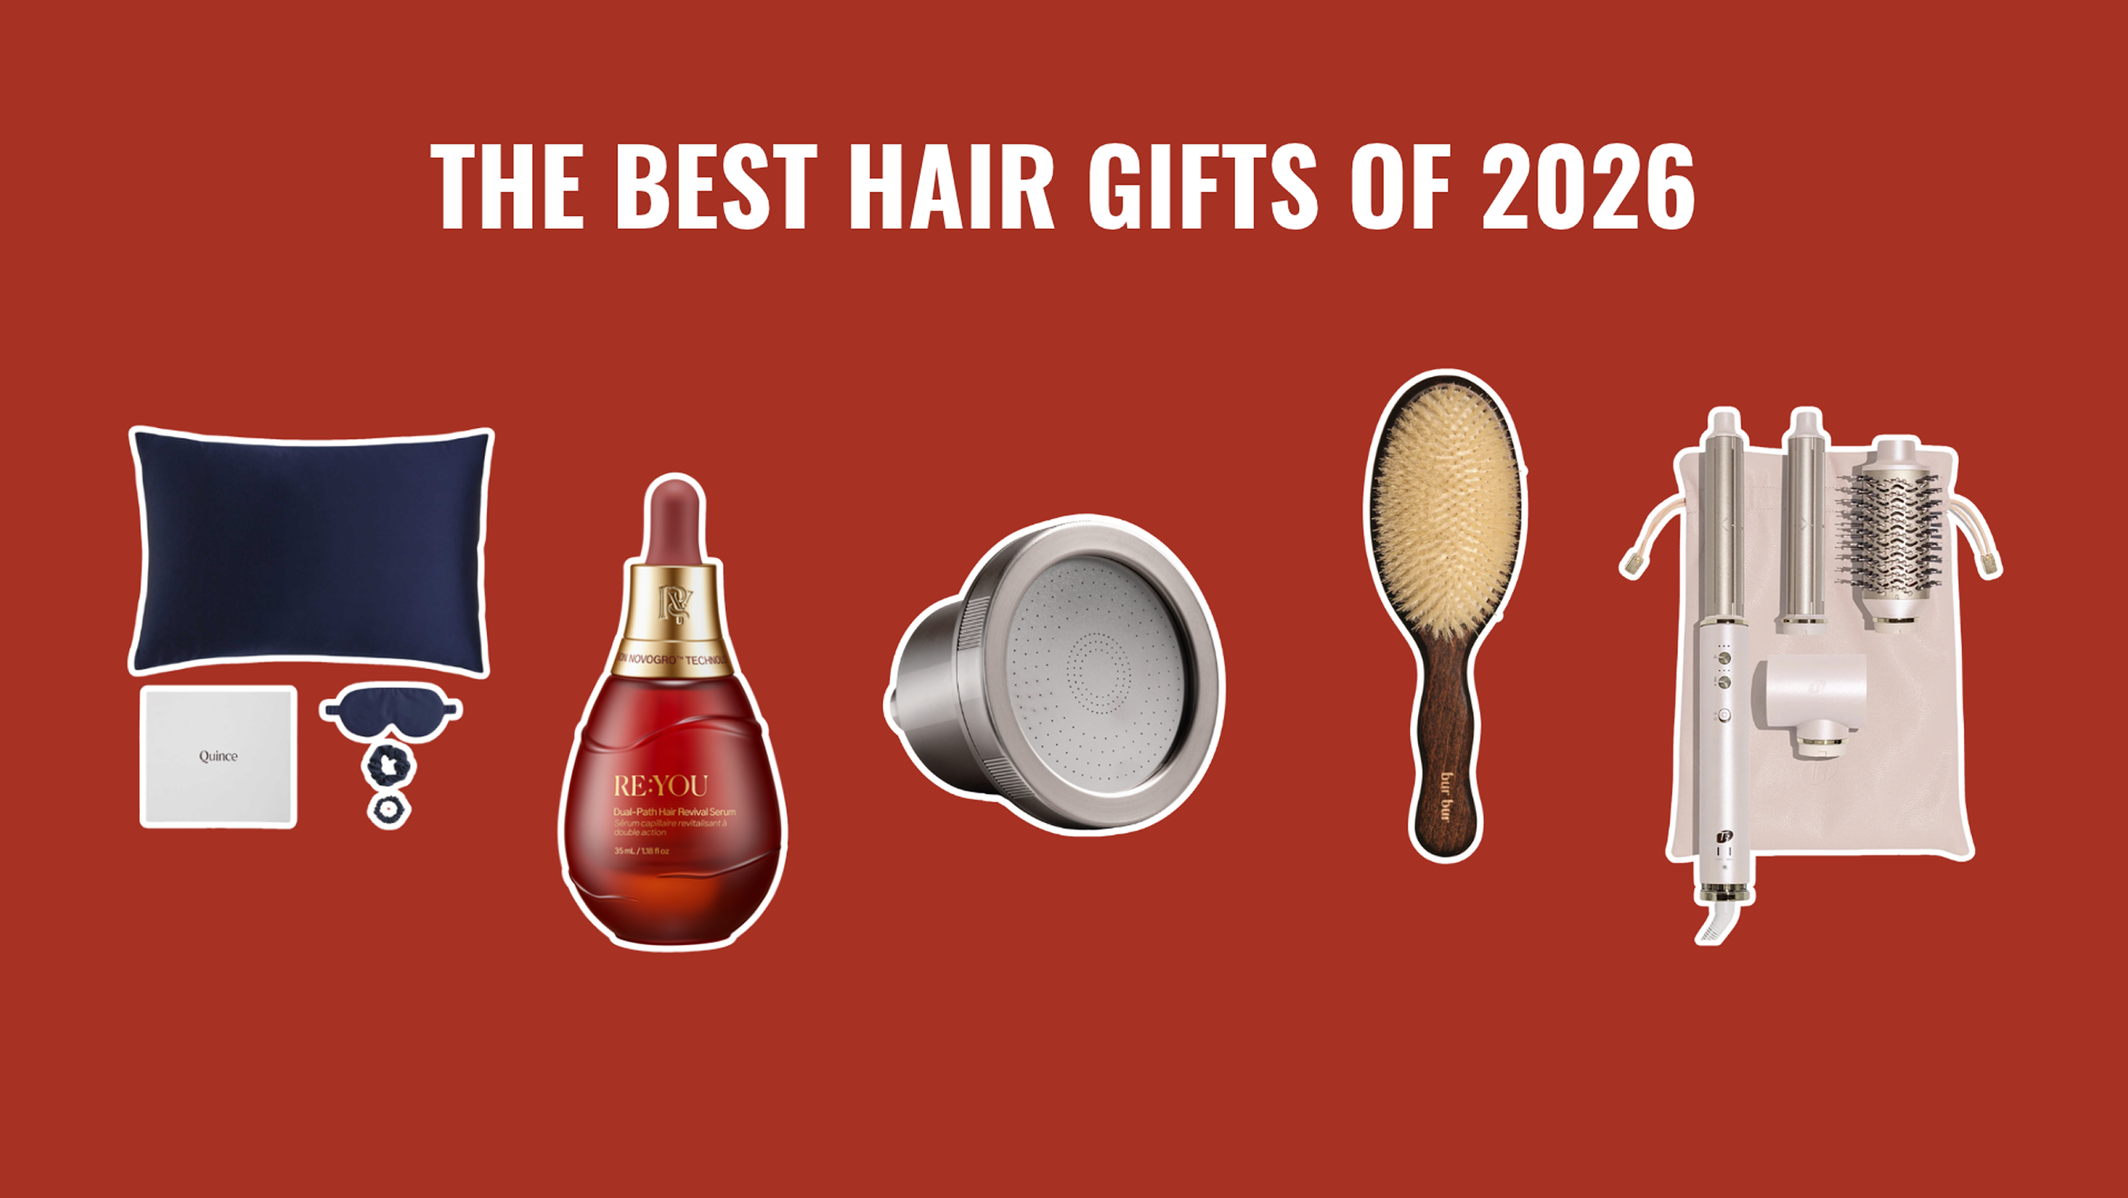
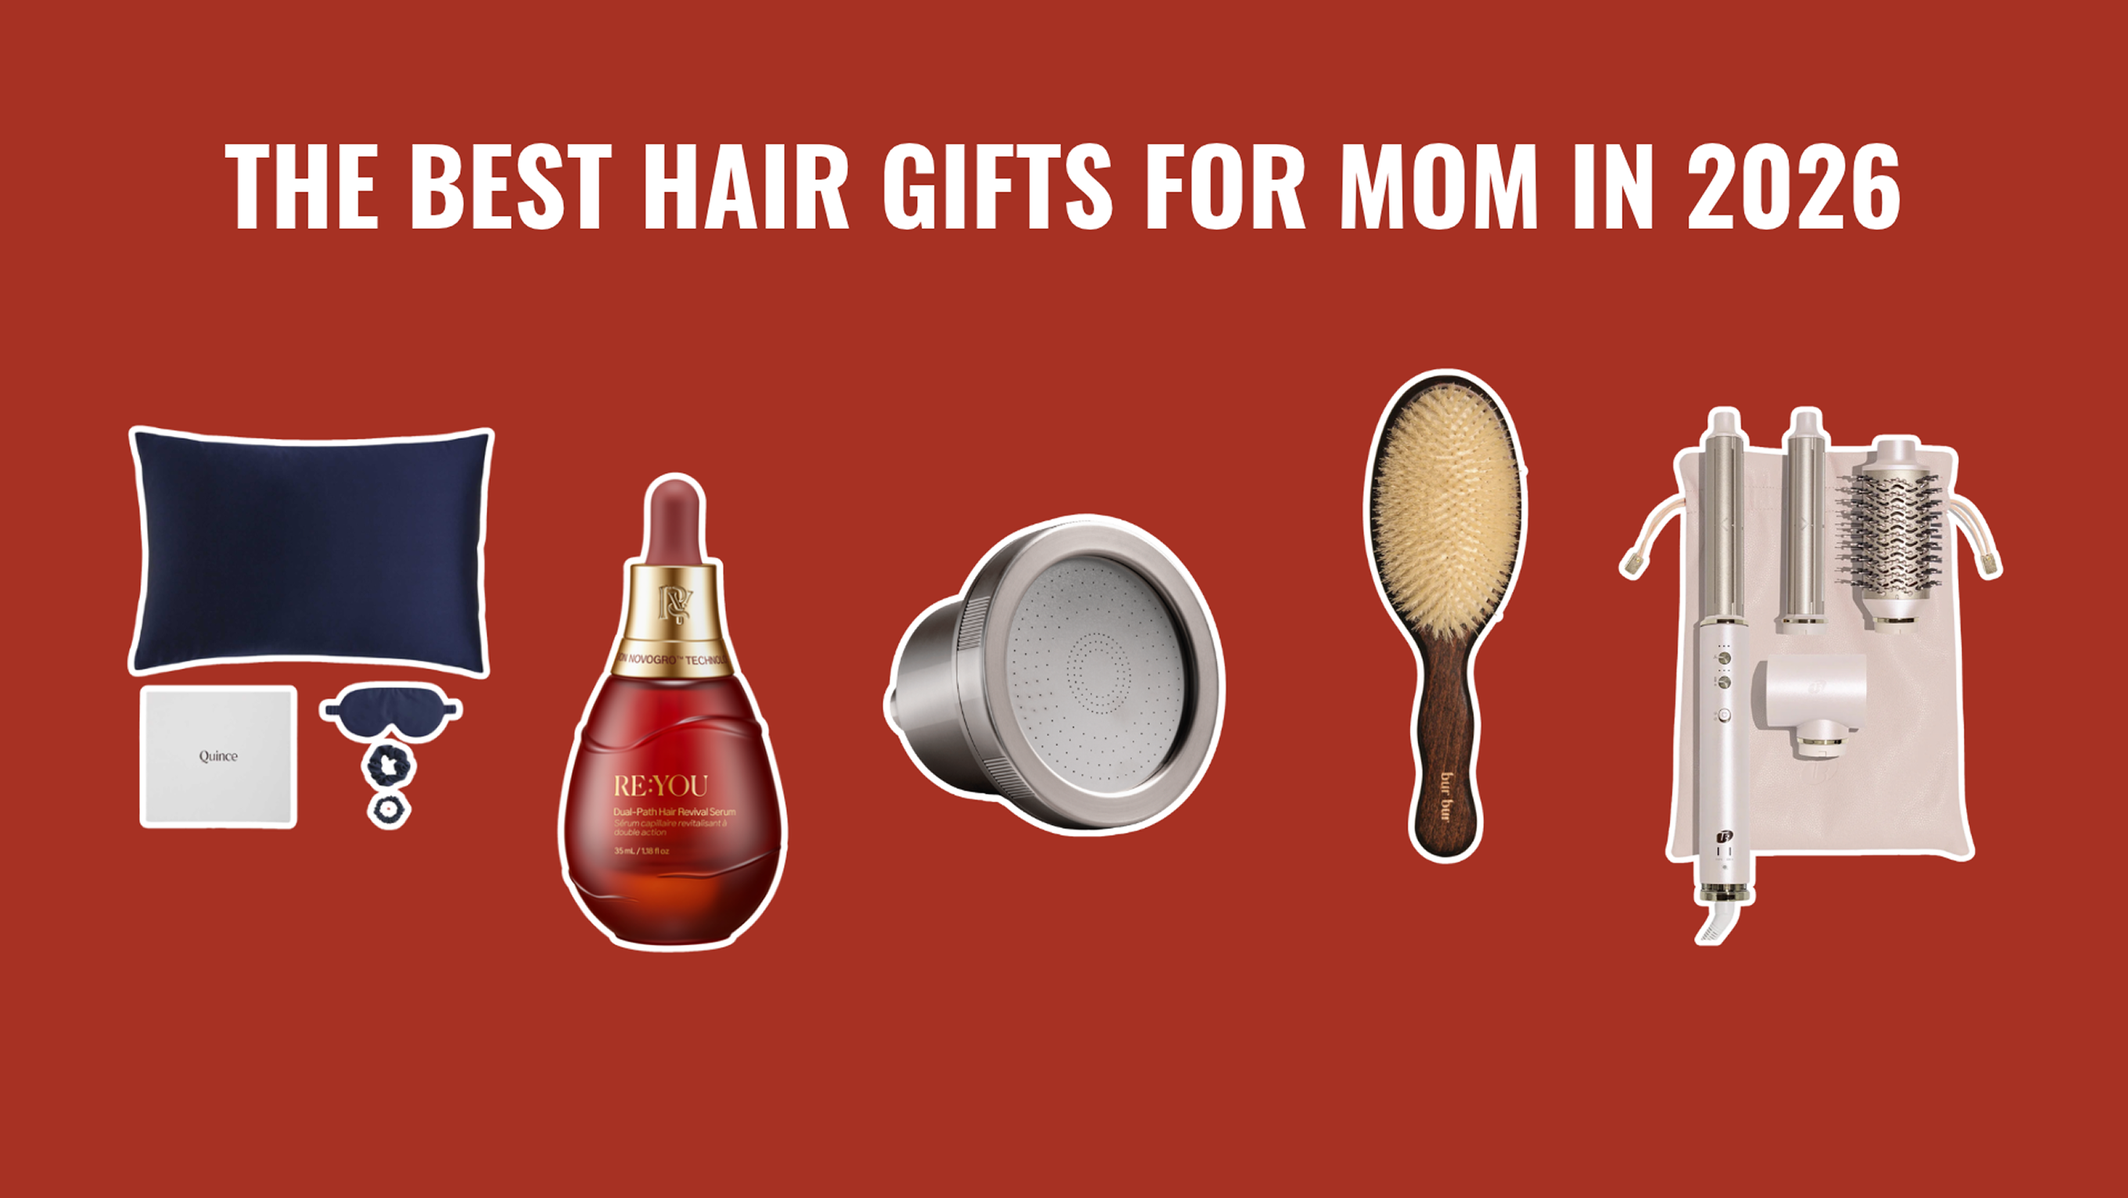
update best gift lp

Changed region(s): [[0.0938, 0.1227, 0.9062, 0.2148]]

diff --git a/pages/best-hair-gifts-of-2026.html b/pages/best-hair-gifts-of-2026.html
@@ -4,20 +4,20 @@
   <meta charset="UTF-8" />
   <meta name="viewport" content="width=device-width, initial-scale=1.0" />
   <link href="https://cdn.jsdelivr.net/npm/bootstrap-icons@1.10.5/font/bootstrap-icons.css" rel="stylesheet" />
-  <meta name="description" content="We looked at the best hair products of 2026 and rounded up five gifts they'll actually use every day, from a hair serum to a silk sleep set." />
+  <meta name="description" content="We looked at the best hair products of 2026 and rounded up five gifts she'll actually use every day, from a hair serum to a silk sleep set." />
   <meta property="og:type" content="article" />
-  <meta property="og:title" content="5 Hair Gifts So Good, They Might Be the Best Thing They Unwrap This Year" />
-  <meta property="og:description" content="We looked at the best hair products of 2026, and rounded up the ones they'll want to use every single day." />
+  <meta property="og:title" content="5 Hair Gifts So Good, They Might Be the Best Thing Mom Unwraps This Year" />
+  <meta property="og:description" content="We looked at the best hair products of 2026, and rounded up the ones she'll want to use every single day." />
   <meta property="og:url" content="https://truthbehindbeauty.com/pages/best-hair-gifts-of-2026.html" />
   <meta property="og:image" content="https://truthbehindbeauty.com/assets/images/the-best-hair-gifts-hero.png" />
   <meta name="twitter:card" content="summary_large_image" />
-  <title>Truth Behind Beauty | 5 Hair Gifts So Good, They Might Be the Best Thing They Unwrap This Year</title>
+  <title>Truth Behind Beauty | 5 Hair Gifts So Good, They Might Be the Best Thing Mom Unwraps This Year</title>
   <link rel="canonical" href="https://truthbehindbeauty.com/pages/best-hair-gifts-of-2026.html">
   <script type="application/ld+json">
 {
   "@context": "https://schema.org",
   "@type": "Article",
-  "headline": "5 Hair Gifts So Good, They Might Be the Best Thing They Unwrap This Year",
+  "headline": "5 Hair Gifts So Good, They Might Be the Best Thing Mom Unwraps This Year",
   "mainEntityOfPage": {
     "@type": "WebPage",
     "@id": "https://truthbehindbeauty.com/pages/best-hair-gifts-of-2026.html"
@@ -34,7 +34,7 @@
       "url": "https://truthbehindbeauty.com/apple-touch-icon.png"
     }
   },
-  "description": "We looked at the best hair products of 2026, and rounded up the ones they'll want to use every single day.",
+  "description": "We looked at the best hair products of 2026, and rounded up the ones she'll want to use every single day.",
   "image": {
     "@type": "ImageObject",
     "url": "https://truthbehindbeauty.com/assets/images/the-best-hair-gifts-hero.png",
@@ -42,7 +42,7 @@
     "height": 1532
   },
   "datePublished": "2026-11-13",
-  "dateModified": "2026-11-13"
+  "dateModified": "2026-11-20"
 }
   </script>
   <link rel="icon" type="image/png" sizes="32x32" href="/assets/images/favicon-32x32.png">
@@ -70,8 +70,6 @@ body{visibility:hidden;opacity:0;transition:opacity 0.3s ease;font-family:Georgi
 .blog-contents a{color:#c8102e;text-decoration:underline;text-decoration-color:rgba(200,16,46,.45);text-underline-offset:2px}
 .blog-contents p a{font-weight:700}
 .blog-contents a:hover{color:#991f1f}
-.blog-contents .win-link{font-weight:700;text-decoration:none}
-.blog-contents .win-link:hover{text-decoration:underline}
 .hero-banner{margin:0.85rem 0 1.55rem}
 .hero-banner img{width:100%;height:auto;display:block}
 .picks{background:#fdf1f1;border-left:6px solid #c8102e;padding:1.25rem 1.35rem 1.15rem 1.25rem;margin:0.35rem 0 1.85rem}
@@ -140,10 +138,10 @@ body{visibility:hidden;opacity:0;transition:opacity 0.3s ease;font-family:Georgi
   <section class="w-60 mx-auto my-4">
 
     <div class="blog-title-section">
-      <h1 class="blog-title">5 Hair Gifts So Good, They Might Be the Best Thing They Unwrap This Year</h1>
+      <h1 class="blog-title">5 Hair Gifts So Good, They Might Be the Best Thing Mom Unwraps This Year</h1>
     </div>
 
-    <p class="blog-dek">We looked at the best hair products of 2026, and rounded up the ones they’ll want to use every single day.</p>
+    <p class="blog-dek">We looked at the best hair products of 2026, and rounded up the ones she’ll want to use every single day.</p>
 
     <div class="author-section">
       <span>By Lauren Bennett</span>
@@ -154,9 +152,9 @@ body{visibility:hidden;opacity:0;transition:opacity 0.3s ease;font-family:Georgi
       <div class="share-links">
         <span>Share:</span>
         <a href="https://www.facebook.com/sharer/sharer.php?u=https://truthbehindbeauty.com/pages/best-hair-gifts-of-2026.html" target="_blank" rel="noopener noreferrer" aria-label="Share on Facebook"><i class="bi bi-facebook" aria-hidden="true"></i></a>
-        <a href="https://twitter.com/intent/tweet?text=5+Hair+Gifts+So+Good%2C+They+Might+Be+the+Best+Thing+They+Unwrap+This+Year+%7C+Truth+Behind+Beauty&url=https://truthbehindbeauty.com/pages/best-hair-gifts-of-2026.html" target="_blank" rel="noopener noreferrer" aria-label="Share on X"><i class="bi bi-twitter" aria-hidden="true"></i></a>
+        <a href="https://twitter.com/intent/tweet?text=5+Hair+Gifts+So+Good%2C+They+Might+Be+the+Best+Thing+Mom+Unwraps+This+Year+%7C+Truth+Behind+Beauty&url=https://truthbehindbeauty.com/pages/best-hair-gifts-of-2026.html" target="_blank" rel="noopener noreferrer" aria-label="Share on X"><i class="bi bi-twitter" aria-hidden="true"></i></a>
       </div>
-      <div class="share-meta">Updated Nov 13, 2026</div>
+      <div class="share-meta">Updated Nov 20, 2026</div>
     </div>
 
     <div class="blog-contents mt-3">
@@ -169,7 +167,7 @@ body{visibility:hidden;opacity:0;transition:opacity 0.3s ease;font-family:Georgi
 
       <p>Here’s the thing: most of what’s being pushed will end up tossed out or forgotten by February.</p>
 
-      <p>So we did the digging for you and pulled together five hair gifts that’ll actually make it into their everyday routine. <a class="win-link" href="#picks">Here’s how to win this gifting season →</a></p>
+      <p>So we did the digging for you and pulled together five hair gifts that’ll actually make it into mom’s everyday routine. Here’s how to win her over this gifting season →</p>
 
       <aside class="picks" id="picks">
         <h2>TBB’s Picks</h2>
@@ -192,7 +190,7 @@ body{visibility:hidden;opacity:0;transition:opacity 0.3s ease;font-family:Georgi
       </article>
 
       <aside class="best-for">
-        <p><strong>Best for:</strong> Anyone seeing more hair in the shower drain, noticing a wider part or a thinner ponytail, or looking for more hair confidence.</p>
+        <p><strong>Best for:</strong> The mom who’s seeing more hair in the shower drain, noticing a wider part or a thinner ponytail, or looking for more hair confidence.</p>
       </aside>
 
       <p>RE:YOU’s hair serum is built to tackle the root causes of thinning. It’s getting a lot of buzz because of its biotech-backed formula that clinically outperformed topical minoxidil, the current gold-standard treatment for hair thinning.</p>
@@ -228,14 +226,14 @@ body{visibility:hidden;opacity:0;transition:opacity 0.3s ease;font-family:Georgi
       </article>
 
       <aside class="best-for">
-        <p><strong>Best for:</strong> Anyone still using a drugstore brush, especially with medium to thick hair.</p>
+        <p><strong>Best for:</strong> The mom who’s still using a drugstore brush, especially with medium to thick hair.</p>
       </aside>
 
       <p>What’s with the boar bristle hype? Since it uses boar’s hair, the bristles have a structure similar to human hair, and they pick up your scalp’s natural oil. When you brush, it evenly distributes the oil from your roots down to your ends; you can think of it as built-in conditioner.</p>
 
       <p>The bristles also smooth and align the hair cuticle, which tames frizz and flyaways and leaves a glossy finish; and the nylon pins help work through knots without snagging.</p>
 
-      <p>It’s the kind of everyday tool most people wouldn’t think to upgrade. Each one is handcrafted in Korea with a polished beech wood handle, so it’s beautiful enough to leave out on the vanity.</p>
+      <p>It’s the kind of everyday tool she wouldn’t think to upgrade. Each one is handcrafted in Korea with a polished beech wood handle, so it’s beautiful enough to leave out on the vanity.</p>
 
       <a class="shop-now" href="https://burbur.com/products/the-mermaid-brush-essential-boar-bristle-brush" target="_blank" rel="noopener noreferrer"><span>Shop now</span> →</a>
 
@@ -251,12 +249,12 @@ body{visibility:hidden;opacity:0;transition:opacity 0.3s ease;font-family:Georgi
       </article>
 
       <aside class="best-for">
-        <p><strong>Best for:</strong> Anyone who wakes up to frizz, tangles or bedhead.</p>
+        <p><strong>Best for:</strong> The mom who wakes up to frizz, tangles or bedhead.</p>
       </aside>
 
-      <p>Silk pillowcases have been getting a lot of love in the hair world because silk’s smooth surface creates far less friction than cotton. That means less tugging, tangling, and less breakage overnight when you’re tossing and turning. And in the morning you’re waking up to less frizz, and less bedhead.</p>
+      <p>Silk pillowcases have been getting a lot of love in the hair world because silk’s smooth surface creates far less friction than cotton. That means less tugging, tangling, and less breakage overnight when she’s tossing and turning. And in the morning she’ll wake up to less frizz, and less bedhead.</p>
 
-      <p>Quince’s silk set is 100% mulberry and machine washable, so it’s luxury they can easily use over and over again. In addition to the pillowcase, the set comes with a sleep mask and two silk scrunchies, for a complete nighttime routine.</p>
+      <p>Quince’s silk set is 100% mulberry and machine washable, so it’s a luxury Mom can easily use over and over again. In addition to the pillowcase, the set comes with a sleep mask and two silk scrunchies, for a complete nighttime routine.</p>
 
       <a class="shop-now" href="https://www.quince.com/women/100-washable-silk-beauty-sleep-set?color=navy" target="_blank" rel="noopener noreferrer"><span>Shop now</span> →</a>
 
@@ -272,14 +270,14 @@ body{visibility:hidden;opacity:0;transition:opacity 0.3s ease;font-family:Georgi
       </article>
 
       <aside class="best-for">
-        <p><strong>Best for:</strong> Anyone with a shower that leaves their hair feeling dry and dull.</p>
+        <p><strong>Best for:</strong> The mom with a shower that leaves their hair feeling dry and dull.</p>
       </aside>
 
-      <p>Unfiltered tap water can weaken your hair, irritate your scalp, and dull your hair color — not exactly what you signed up for.</p>
+      <p>Unfiltered tap water can weaken your hair, irritate your scalp, and dull your hair color — not exactly what anyone signed up for.</p>
 
       <p>That’s why a group of dermatologists developed this sleek, stylish showerhead that runs water through a 20-stage filter before it reaches your hair.</p>
 
-      <p>It’s built to remove contaminants like chlorine, microplastics, and heavy metals from your tap water, so hair feels softer, shinier, and less prone to dryness. Anyone living with hard or heavily chlorinated water will notice it most.</p>
+      <p>It’s built to remove contaminants like chlorine, microplastics, and heavy metals from tap water, so her hair will feel softer, shinier, and less prone to dryness. If Mom lives with hard or heavily chlorinated water, she will notice it the most.</p>
 
       <p>It installs in minutes with no plumber needed, and many users have seen improved water pressure after installing. It’s the kind of upgrade most people don’t think to buy for themselves, which is exactly what makes it a great gift.</p>
 
@@ -300,19 +298,19 @@ body{visibility:hidden;opacity:0;transition:opacity 0.3s ease;font-family:Georgi
         <p><strong>Best for:</strong> The daily hair-styler who’s been eyeing a Dyson.</p>
       </aside>
 
-      <p>This is definitely the splurge on this list, but well worth it. The kit includes two ceramic curling attachments, an oval brush and a drying concentrator, plus three heat and three speed settings to dial in the exact style you’re looking for.</p>
+      <p>This is definitely the splurge on this list, but well worth it. The kit includes two ceramic curling attachments, an oval brush and a drying concentrator, plus three heat and three speed settings to dial in the exact style Mom is looking for.</p>
 
-      <p>It dries, smooths, and curls, and reviewers say that it gets close to Airwrap results for a lot less. It’s lighter than its Dyson counterpart, and everything packs into a travel tote, so it can go wherever you do.</p>
+      <p>It dries, smooths, and curls, and reviewers say that it gets close to Airwrap results for a lot less. It’s lighter than its Dyson counterpart, and everything packs into a travel tote, so it can go wherever she goes.</p>
 
       <a class="shop-now" href="https://t3micro.com/products/aire360-dual-voltage" target="_blank" rel="noopener noreferrer"><span>Shop now</span> →</a>
 
-      <h2 class="story-h">Upgrade Their Hair Routine</h2>
+      <h2 class="story-h">Upgrade Mom’s Hair Routine</h2>
 
       <p>The best gifts are the ones that get used over and over again.</p>
 
-      <p>Whether it’s a better brush, a better shower, a better night’s sleep, a better blowout or healthier-looking hair, each one of these products earns a spot in someone’s routine.</p>
+      <p>Whether it’s a better brush, a better shower, a better night’s sleep, a better blowout or healthier-looking hair, each one of these products earns a spot in her routine.</p>
 
-      <p>Find the one that fits the person on your list, and you’ve already won the holiday season. And you might want to pick one up for yourself while you’re at it.</p>
+      <p>Find the one that fits her life, and you’ve already won the holiday season. And you might want to pick one up for yourself while you’re at it.</p>
 
       <div style="border-top:2px solid #eee;margin-top:2.5rem;padding-top:2rem;">
         <h2 style="font-family:'Oswald',Buvera,sans-serif;font-size:2rem;font-weight:700;text-transform:uppercase;letter-spacing:0.05em;margin-bottom:1.5rem;color:#111;">You Might Also Like</h2>
@@ -355,15 +353,15 @@ body{visibility:hidden;opacity:0;transition:opacity 0.3s ease;font-family:Georgi
       insertReviewWrite('#comments-section', {
         storageKey: 'tbb-best-hair-gifts-of-2026',
         comments: [
-          { name: 'Naomi M.', initial: 'N', color: '#466a7f', date: 'Nov 13, 2026', text: 'The serum numbers are the reason this one stayed on my list. A greasy dropper is how every other hair gift ended up in a drawer.' },
-          { name: 'Megan P.', initial: 'M', color: '#7a4c68', date: 'Nov 13, 2026', text: 'The silk set is the one I can actually picture someone using in February. Everything else on my list this year is a candle.' },
-          { name: 'Dana L.', initial: 'D', color: '#8b3a4a', date: 'Nov 13, 2026', text: 'The 90-day guarantee is the reason the serum made my list. If she hates it, it doesn’t become another unopened bottle in the bathroom.' },
-          { name: 'Priya S.', initial: 'P', color: '#3d5a4c', date: 'Nov 13, 2026', text: 'Is the Bur Bur the boar one or the wet detangler? I have thick hair that eats drugstore brushes.', replies: [
-            { name: 'Lauren Bennett (author)', initial: 'L', color: '#c8102e', date: 'Nov 13, 2026', text: 'The boar-bristle one, with nylon pins so it can get through a knot. That’s the brush in the photo, and it’s the one I’d pick for medium to thick hair.' }
+          { name: 'Naomi M.', initial: 'N', color: '#466a7f', date: 'Nov 13, 2026', text: 'The serum numbers are why this is the one I’m getting my mom. A greasy dropper is how every other hair gift ended up in her drawer.' },
+          { name: 'Megan P.', initial: 'M', color: '#7a4c68', date: 'Nov 13, 2026', text: 'The silk set is the one I can actually picture my mom using in February. Everything else on my list this year is a candle.' },
+          { name: 'Dana L.', initial: 'D', color: '#8b3a4a', date: 'Nov 13, 2026', text: 'I got my mom RE:YOU and she likes it.' },
+          { name: 'Priya S.', initial: 'P', color: '#3d5a4c', date: 'Nov 13, 2026', text: 'Is the Bur Bur the boar one or the wet detangler? My mom has thick hair that eats drugstore brushes.', replies: [
+            { name: 'Lauren Bennett (author)', initial: 'L', color: '#c8102e', date: 'Nov 13, 2026', text: 'The boar-bristle one, with nylon pins so it can get through a knot. That’s the brush in the photo, and it’s the one I’d pick for a mom with medium to thick hair.' }
           ] },
-          { name: 'Ruth C.', initial: 'R', color: '#2f4f4f', date: 'Nov 13, 2026', text: 'I want the one that is drug- and hormone-free. She already has a routine, and one dropper a day is the only thing she will actually keep doing.' },
-          { name: 'Helen K.', initial: 'H', color: '#1a5276', date: 'Nov 13, 2026', text: 'Our water is awful. If the showerhead really installs without a plumber, that’s the gift. My sister will not schedule a handyman.' },
-          { name: 'Andrea M.', initial: 'A', color: '#6e5c2e', date: 'Nov 13, 2026', text: 'I’ve been side-eyeing an Airwrap for a year and not buying it. The T3 being lighter and packing into a tote is the part that got me.' }
+          { name: 'Ruth C.', initial: 'R', color: '#2f4f4f', date: 'Nov 13, 2026', text: 'I want the one that is drug- and hormone-free. Mom already has a routine, and one dropper a day is the only thing she will actually keep doing.' },
+          { name: 'Helen K.', initial: 'H', color: '#1a5276', date: 'Nov 13, 2026', text: 'Our water is awful. If the showerhead really installs without a plumber, that’s the gift. My mom will not schedule a handyman.' },
+          { name: 'Andrea M.', initial: 'A', color: '#6e5c2e', date: 'Nov 13, 2026', text: 'My mom has been side-eyeing an Airwrap for a year and not buying it. The T3 being lighter and packing into a tote is the part that sold me.' }
         ]
       });
     }

diff --git a/pages/beauty-gifts-worth-skipping-sephora.html b/pages/beauty-gifts-worth-skipping-sephora.html
@@ -1115,7 +1115,7 @@
                     color: #111;
                   "
                 >
-                  5 Hair Gifts So Good, They Might Be the Best Thing They Unwrap
+                  5 Hair Gifts So Good, They Might Be the Best Thing Mom Unwraps
                   This Year
                 </p>
               </a>
